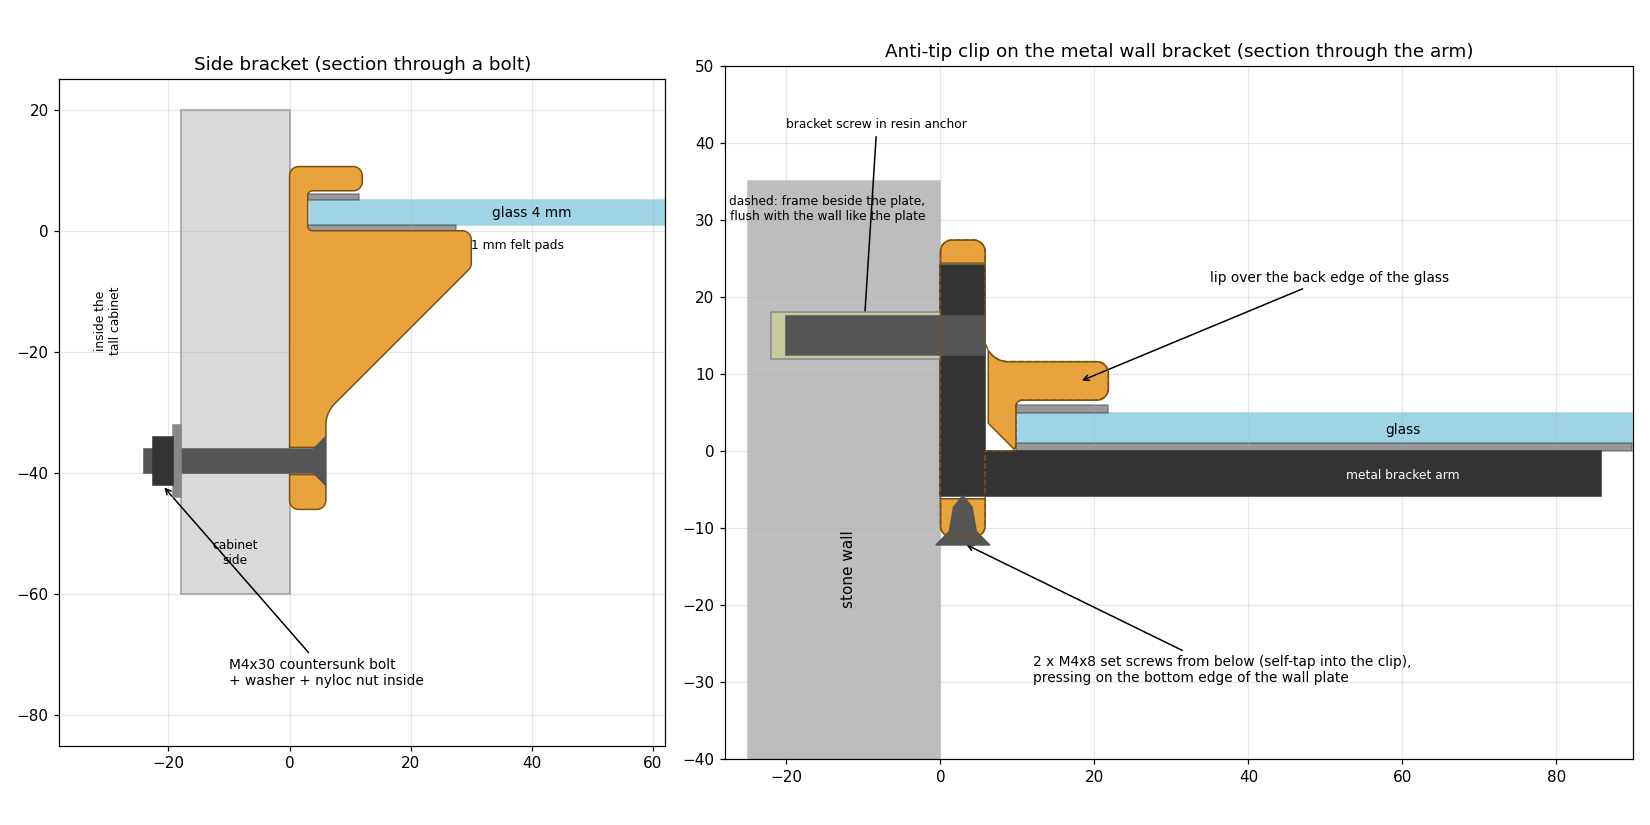
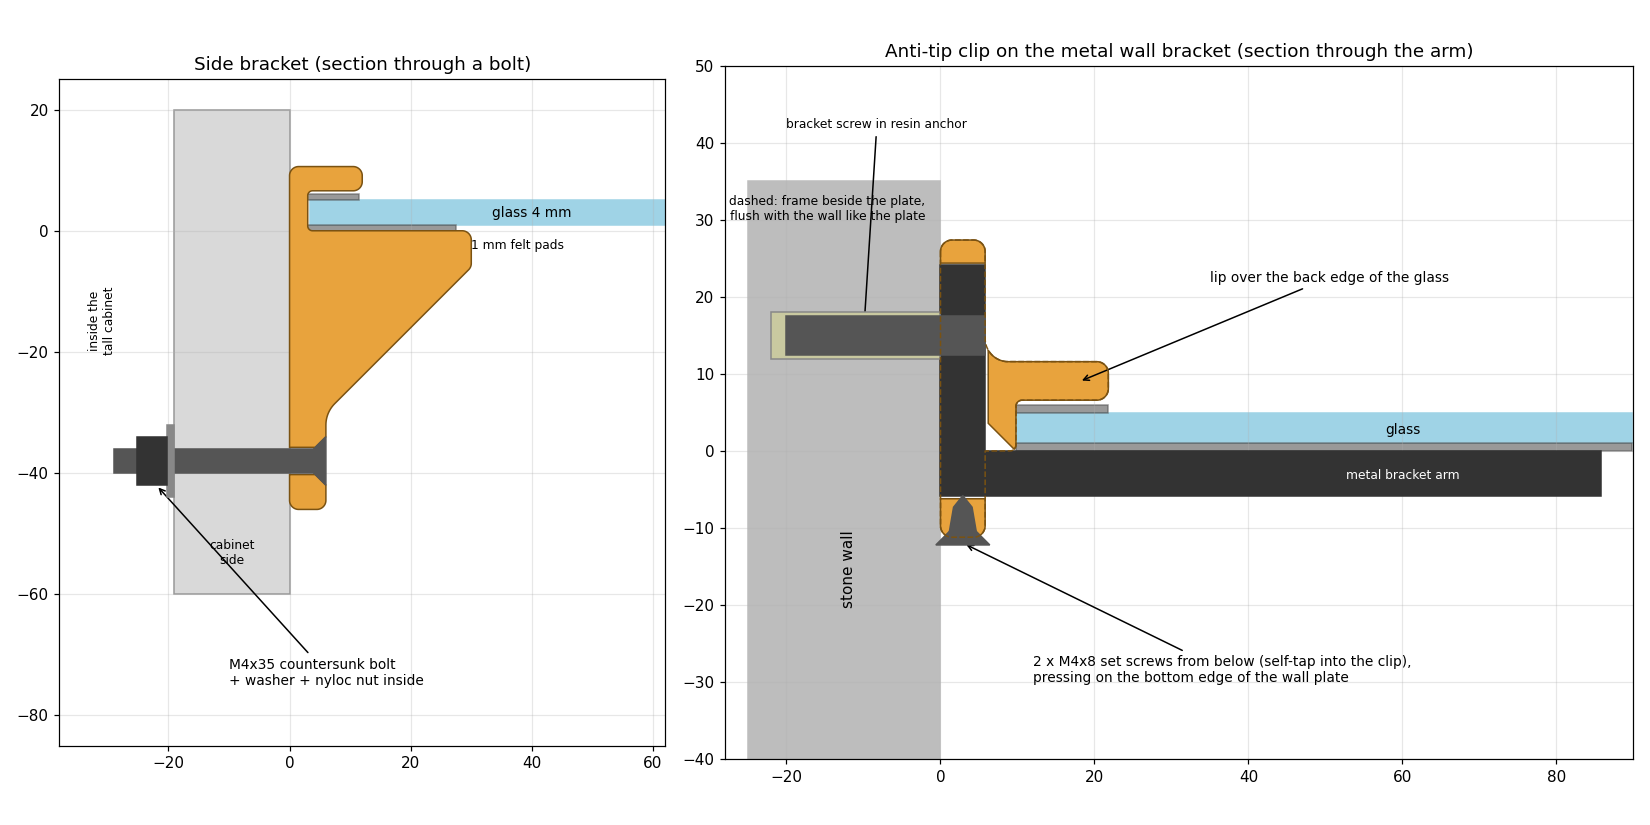
use M4x35 bolts for the 18-19 mm BESTA cabinet sides
With a 5 mm nyloc nut, M4x30 is ~2 mm too short through the printed
plate, the measured 18-19 mm side and a washer.

Changed region(s): [[0.0309, 0.1212, 0.1545, 0.7273]]

diff --git a/FreeCad/Besta Top Panel Brackets/README.md b/FreeCad/Besta Top Panel Brackets/README.md
@@ -24,12 +24,12 @@ Fixes an IKEA **BESTÅ oak veneer top panel (180 × 42 × 2 cm, solid particlebo
 | 2 | Flat-bar T shelf bracket, 25 cm arm (e.g. TESSTINA "concealed" 80 kg) | wall |
 | 6 | Wall fixings for those brackets, see [Fixing into a thick stone wall](../Besta%20Glass%20Shelf%20Support/README.md#fixing-into-a-thick-stone-wall) | metal bracket → wall |
 | 4–6 | 3.5 × 16 countersunk chipboard screw | metal bracket arm → underside of the panel |
-| 8 | M4 × 30 countersunk bolt (ISO 10642 / DIN 7991) | L brackets → through the cabinet side |
+| 8 | M4 × 35 countersunk bolt (ISO 10642 / DIN 7991) | L brackets → through the cabinet side |
 | 8 | M4 washer, wide (DIN 9021) | inside the cabinet |
 | 8 | M4 nyloc nut (DIN 985), or a plain nut with medium (blue) threadlocker | inside the cabinet |
 | 8 | 3.5 × 16 countersunk chipboard screw (e.g. Spax) | L brackets → underside of the panel |
 
-- **Cabinet side:** BESTÅ frame sides have a honeycomb paper core, so bolt through them rather than using wood screws. M4 × 30 suits sides up to ~19 mm thick; use M4 × 35 if yours are thicker.
+- **Cabinet side:** BESTÅ frame sides have a honeycomb paper core, so bolt through them rather than using wood screws. The BESTÅ sides measure 18–19 mm, so use **M4 × 35**. Through a 5–6 mm printed plate, the side, a washer and a 5 mm tall nyloc nut, an M4 × 30 would be ~2 mm too short, while M4 × 35 leaves a few mm of thread past the nut.
 - **Top panel:** it is solid particleboard. A 3.5 × 16 screw goes ~11 mm into the 20 mm panel through a printed bracket (5 mm), or ~10 mm through a metal arm (5.8 mm), so it never comes through the top. Don't use the long shelf screws supplied with the metal brackets: they would go through the panel.
 
 ## Printing (Bambu Lab A1 mini)

diff --git a/FreeCad/Besta Glass Shelf Support/README.md b/FreeCad/Besta Glass Shelf Support/README.md
@@ -30,12 +30,12 @@ The FreeCAD model also contains a reference model of the metal bracket (`Ref_Met
 | 2 | Flat-bar T shelf bracket, 25 cm arm (e.g. TESSTINA "concealed" 80 kg: wall plate 100 × 30 × 5.8 mm, 3 countersunk holes) | wall |
 | 6 | Wall fixings for those brackets, see [Fixing into a thick stone wall](#fixing-into-a-thick-stone-wall) | bracket → wall |
 | 4 | M4 × 8 screw (any head) | clip set screws (2 per clip), self-tap into the plastic |
-| 6 | M4 × 30 countersunk bolt (ISO 10642 / DIN 7991) | side brackets → through the cabinet side |
+| 6 | M4 × 35 countersunk bolt (ISO 10642 / DIN 7991) | side brackets → through the cabinet side |
 | 6 | M4 washer, wide (DIN 9021) | inside the cabinet |
 | 6 | M4 nyloc nut (DIN 985), or a plain nut with medium (blue) threadlocker | inside the cabinet |
 | ~1 m | 1 mm adhesive felt tape, 10 mm wide | every face that touches the glass |
 
-**Why bolt through the cabinet?** BESTÅ frame sides are particleboard skins with a honeycomb paper core, so wood screws in the middle of a side panel hold poorly. A bolt with a wide washer inside holds firmly. M4 × 30 suits sides up to ~19 mm thick; use M4 × 35 if yours are thicker.
+**Why bolt through the cabinet?** BESTÅ frame sides are particleboard skins with a honeycomb paper core, so wood screws in the middle of a side panel hold poorly. A bolt with a wide washer inside holds firmly. The BESTÅ sides measure 18–19 mm, so use **M4 × 35**. Through a 5–6 mm printed plate, the side, a washer and a 5 mm tall nyloc nut, an M4 × 30 would be ~2 mm too short, while M4 × 35 leaves a few mm of thread past the nut.
 
 ## Before you start
 
